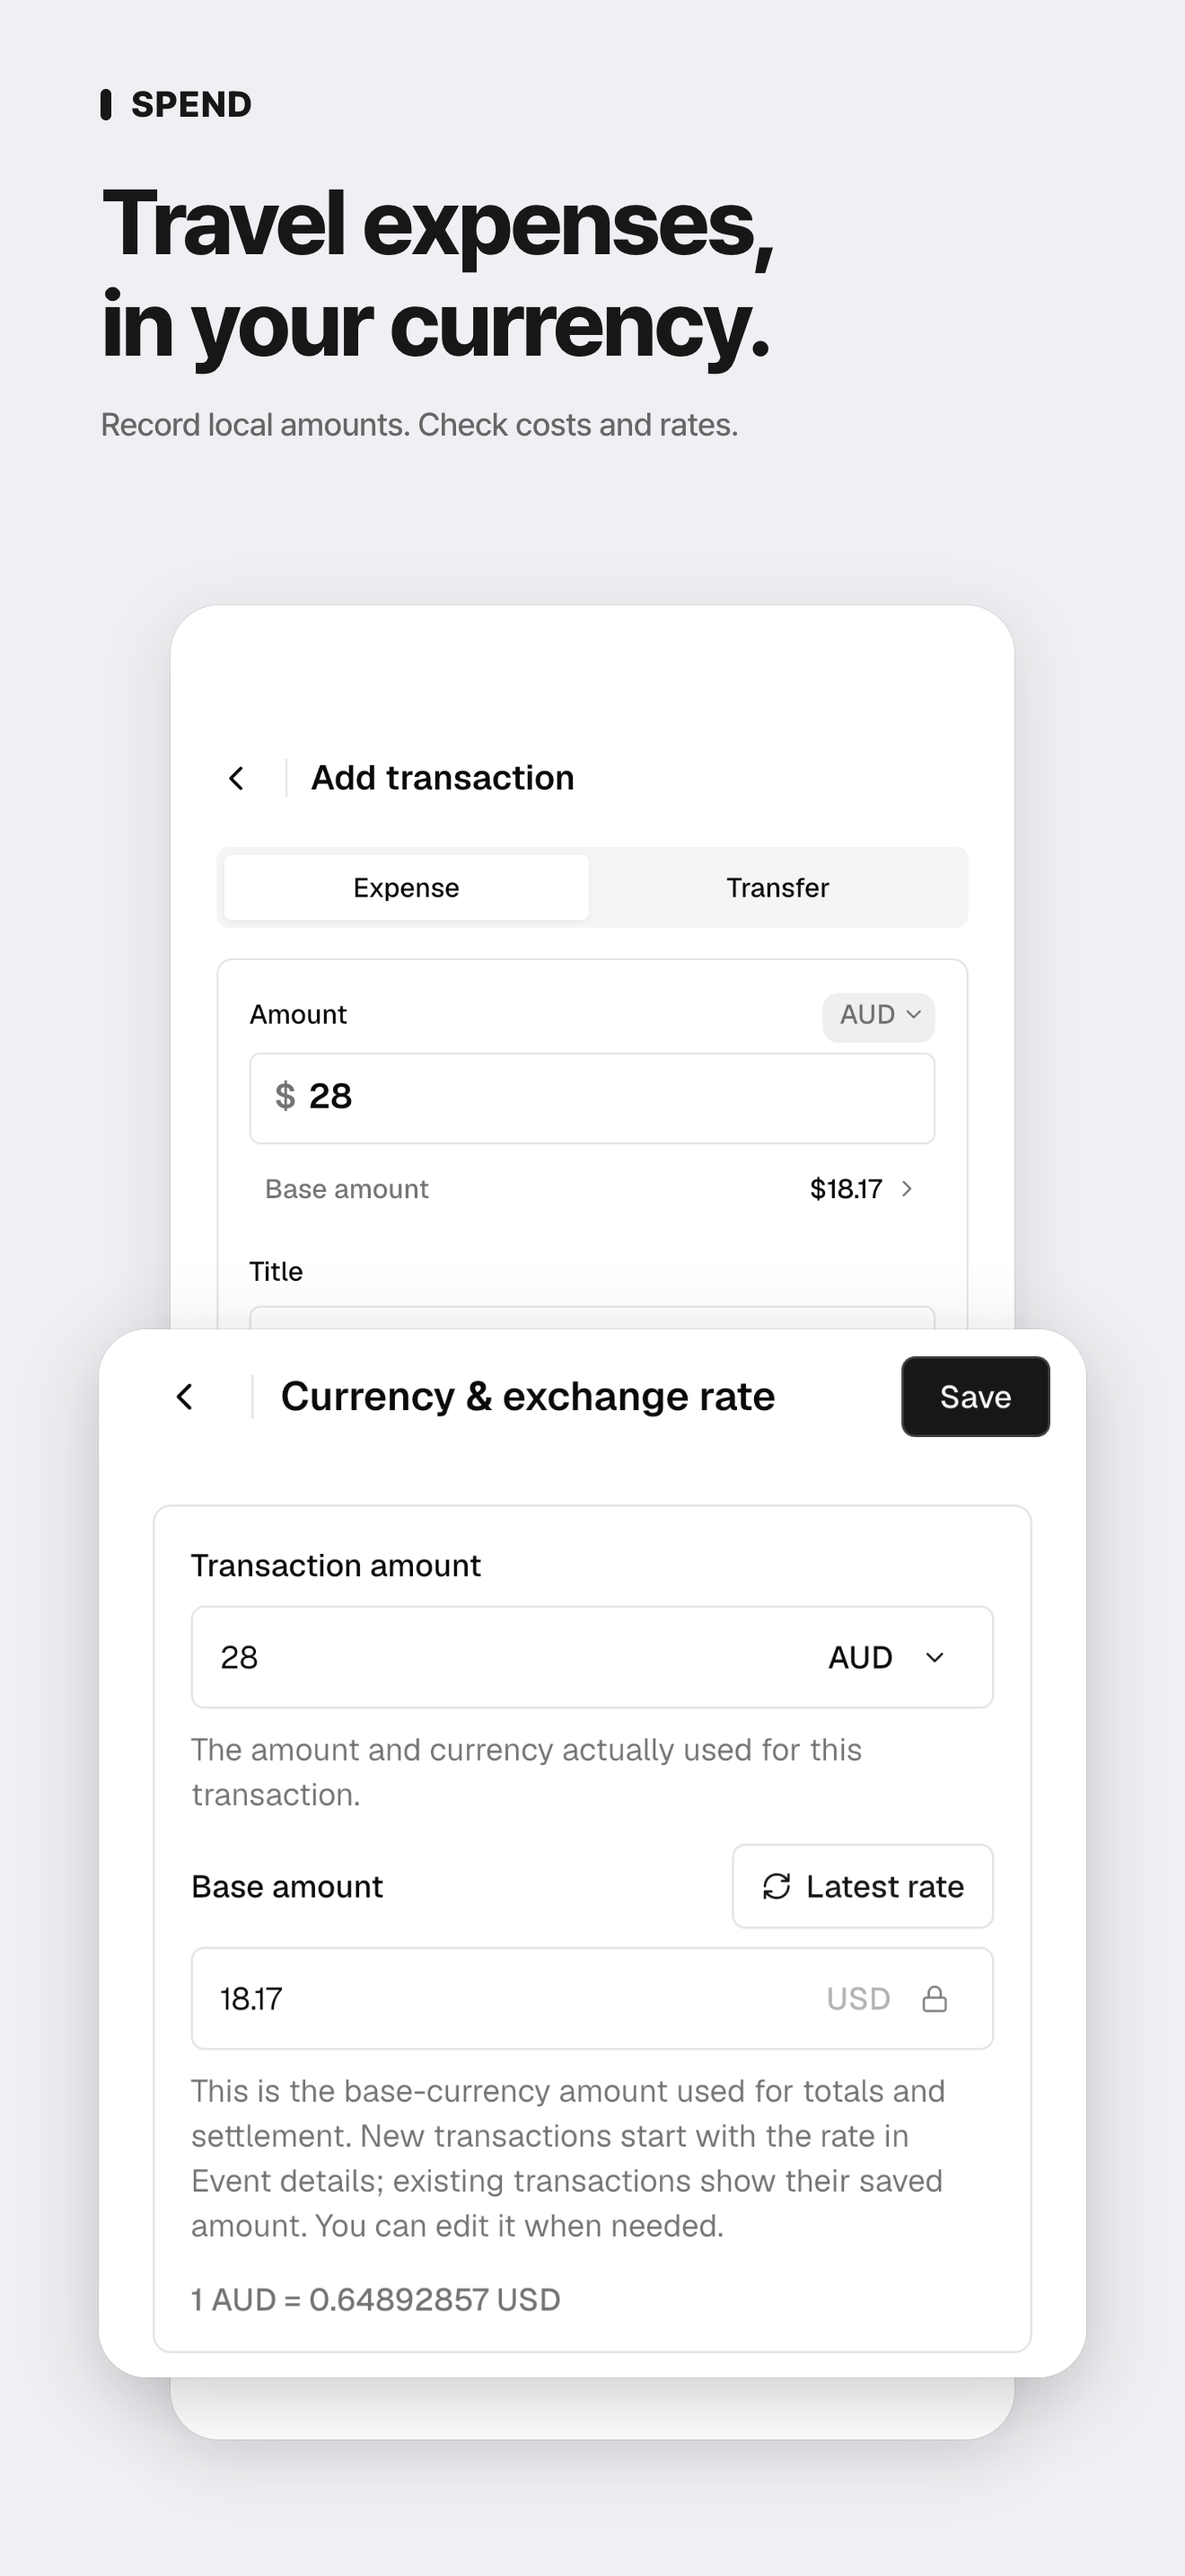
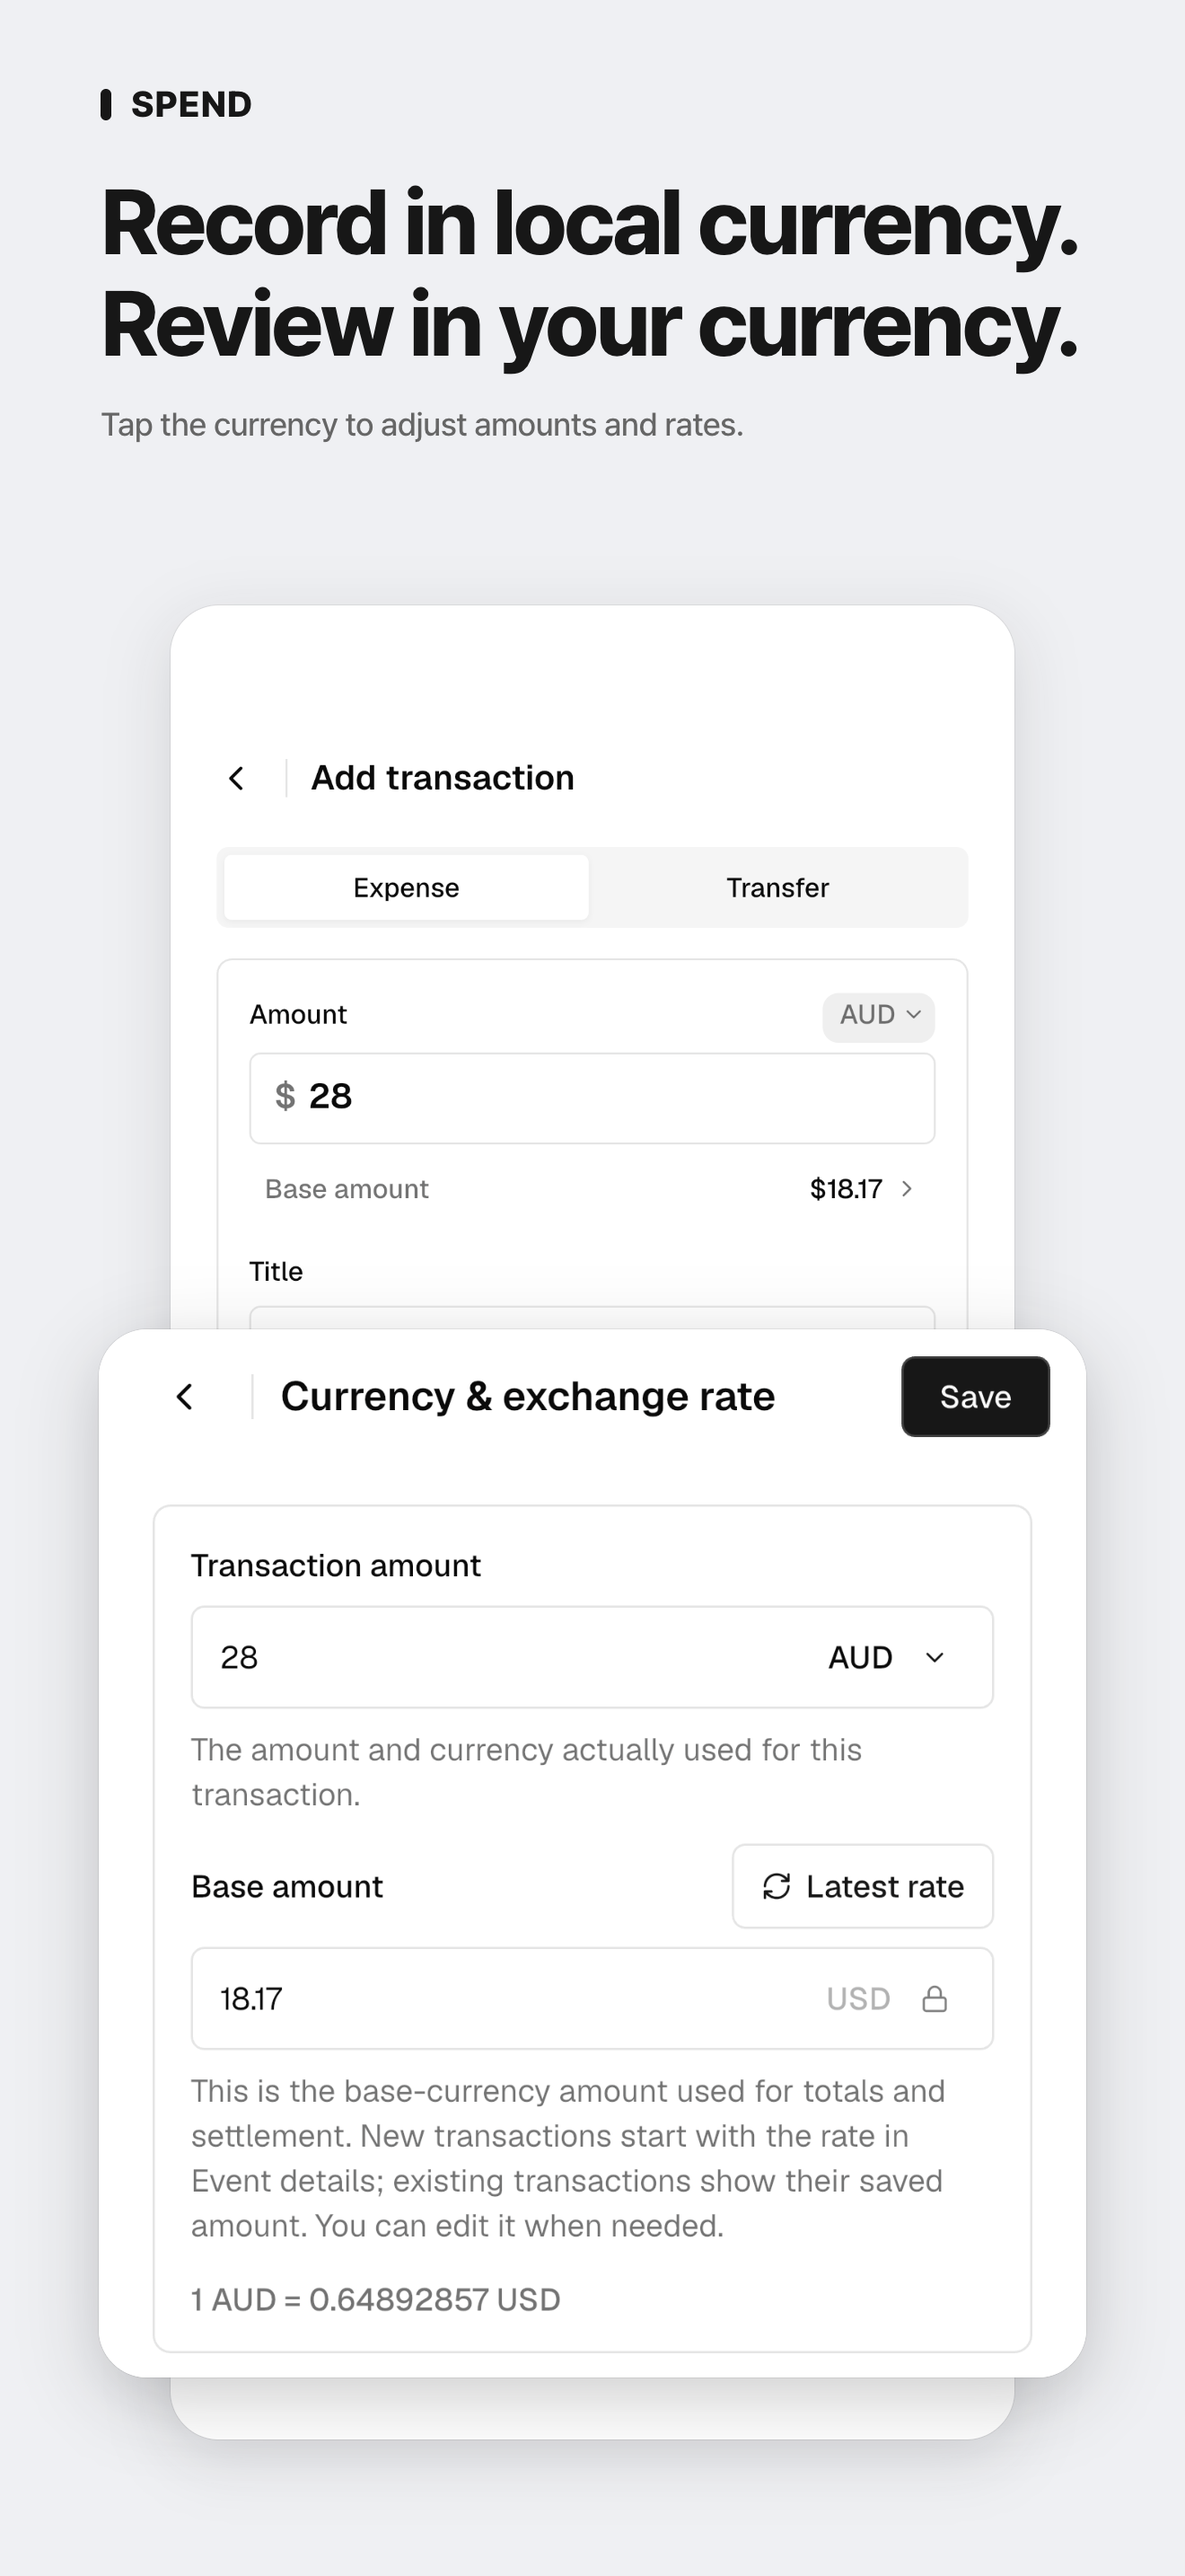
Align privacy with home and restore final store artwork

Changed region(s): [[0.0932, 0.0621, 0.9008, 0.1862]]

diff --git a/index.html b/index.html
@@ -9,9 +9,9 @@
   <link rel="canonical" href="https://app.spendlab.net/">
   <link rel="icon" type="image/svg+xml" href="/favicon.svg">
   <link rel="apple-touch-icon" sizes="180x180" href="/apple-touch-icon.png">
-  <link rel="stylesheet" href="/style.css?v=steel-blue1">
+  <link rel="stylesheet" href="/style.css?v=shared1">
   <script src="/theme.js?v=spend-neutral1" defer></script>
-  <link rel="stylesheet" href="/landing.css?v=intro3">
+  <link rel="stylesheet" href="/landing.css?v=intro4">
 </head>
 <body class="landing">
   <div class="page">
@@ -31,7 +31,6 @@
         <p class="availability"><span>For iPhone</span><span class="availability-next"><span aria-hidden="true">·</span> Android planned</span></p>
       </section>
       <section class="screens-section" aria-label="App preview">
-        <p class="preview-note">A preview of the next SPEND update <span>· Scroll to explore all 9 screens</span></p>
         <div class="screens" tabindex="0" aria-label="Nine app screenshots. Scroll horizontally to explore.">
           <img src="/images/overview.png" width="1320" height="2868" alt="Split group bills and track travel costs: a quick calculator and an expense book.">
           <img src="/images/quick-split.png" width="1320" height="2868" alt="Quick calculator: split a 60 dollar bill between three people, 20 dollars each.">
@@ -39,7 +38,7 @@
           <img src="/images/split-members.png" width="1320" height="2868" loading="lazy" alt="Choose who paid and who shares each expense.">
           <img src="/images/settlement.png" width="1320" height="2868" loading="lazy" alt="Member balances and suggested settlements show who owes whom.">
           <img src="/images/travel-costs.png" width="1320" height="2868" loading="lazy" alt="Record a Sydney trip day by day, with dates, places and notes.">
-          <img src="/images/currencies.png" width="1320" height="2868" loading="lazy" alt="Record travel expenses in local currency and see costs in your own currency.">
+          <img src="/images/currencies.png?v=b3fab5f442b5" width="1320" height="2868" loading="lazy" alt="Record travel expenses in local currency and see costs in your own currency.">
           <img src="/images/insights.png" width="1320" height="2868" loading="lazy" alt="Review spending highlights, categories and tags.">
           <img src="/images/mini-games.png" width="1320" height="2868" loading="lazy" alt="Finger, wheel and pinball mini games for a meetup.">
         </div>

diff --git a/style.css b/style.css
@@ -5,18 +5,18 @@
 body { margin: 0; -webkit-font-smoothing: antialiased; }
 a { color: inherit; text-underline-offset: .25em; }
 a:focus-visible { outline: 2px solid var(--accent); outline-offset: 5px; border-radius: 2px; }
-.page { width: min(100% - 48px, 760px); margin-inline: auto; }
+.page { width: min(100% - 48px, 1040px); margin-inline: auto; }
 header { display: flex; flex-wrap: wrap; align-items: center; justify-content: space-between; gap: 20px; padding-block: 30px; border-bottom: 1px solid var(--border); }
 .wordmark { font-family: Geist, sans-serif; font-size: 34px; font-weight: 750; letter-spacing: 0; line-height: 1.2; text-decoration: none; }
 .header-controls { display: flex; flex-wrap: wrap; align-items: center; gap: 8px; }
 #theme-toggle { min-height: 44px; padding: 8px 12px; border: 1px solid var(--border); border-radius: 6px; background: transparent; color: var(--foreground); font: inherit; font-size: 14px; cursor: pointer; }
 #theme-toggle:hover { background: var(--selected); }
 #theme-toggle:focus-visible { outline: 2px solid var(--accent); outline-offset: 4px; }
-main { padding-block: 72px 48px; }
+main { padding: 64px 0 0; }
 article[hidden] { display: none; }
 article:target { scroll-margin-top: 24px; }
 .eyebrow { color: var(--accent); font-size: 12px; font-weight: 650; letter-spacing: .14em; margin-bottom: 16px; }
-h1 { margin: 0; font-size: clamp(1.875rem, 5vw, 2.5rem); font-weight: 700; letter-spacing: -.045em; line-height: 1.3; overflow-wrap: anywhere; }
+h1 { font-family: Geist, sans-serif; margin: 0; font-size: clamp(1.875rem, 5vw, 2.5rem); font-weight: 700; letter-spacing: -.045em; line-height: 1.3; overflow-wrap: anywhere; }
 .date { font-size: 14px; color: var(--muted); margin: 16px 0 0; }
 .date time { margin-left: 6px; }
 .policy { margin-top: 48px; max-width: 650px; font-size: 17px; line-height: 1.9; word-break: keep-all; overflow-wrap: anywhere; }
@@ -41,4 +41,6 @@ footer a span { margin-left: 4px; }
 .primary-nav a[aria-current="page"] { color: var(--foreground); font-weight: 600; }
 .primary-nav a:hover { color: var(--accent); }
 
-.copyright { margin: 0; padding-bottom: 32px; color: var(--muted); font-size: 14px; line-height: 1.6; }
+.site-footer { margin-top: 48px; padding-block: 24px 32px; }
+.site-footer nav { display: flex; gap: 24px; }
+@media (max-width: 640px) { main { padding-top: 48px; } }

diff --git a/landing.css b/landing.css
@@ -1,6 +1,3 @@
-/* The privacy page retains its existing style.css layout. */
-.landing .page { width: min(100% - 48px, 1040px); }
-.landing main { padding: 64px 0 0; }
 .intro { text-align: center; padding-inline: 8px; }
 .intro h1 { font-family: Geist, sans-serif; font-size: clamp(2.5rem, 6vw, 4rem); font-weight: 650; letter-spacing: -.055em; line-height: 1.08; }
 .intro h1 span { color: var(--accent); }
@@ -11,20 +8,15 @@
 .availability-next { display: inline-flex; gap: 10px; }
 .availability-next > span { color: var(--accent); }
 .screens-section { margin-top: 60px; }
-.preview-note { margin: 0 0 16px; color: var(--muted); text-align: center; font-size: 14px; }
 .screens { display: grid; grid-auto-flow: column; grid-auto-columns: 31.5%; gap: 20px; overflow-x: auto; scroll-snap-type: x proximity; padding-bottom: 16px; scrollbar-color: var(--muted) var(--background); }
 .screens img { scroll-snap-align: start; display: block; width: 100%; height: auto; border-radius: 16px; border: 1px solid var(--border); }
 .screens:focus-visible { outline: 2px solid var(--accent); outline-offset: 5px; }
-.site-footer { margin-top: 48px; padding-block: 24px 32px; }
-.site-footer nav { display: flex; gap: 24px; }
 @media (max-width: 640px) {
-  .landing main { padding-top: 48px; }
   .intro { text-align: left; padding: 0; }
   .intro-copy { margin-inline: 0; font-size: 16px; }
   .desktop-break { display: none; }
   .availability { justify-content: flex-start; }
   .screens-section { margin-top: 40px; }
-  .preview-note { text-align: left; }
   .screens { grid-template-columns: none; grid-auto-flow: column; grid-auto-columns: 78%; gap: 16px; overflow-x: auto; scroll-snap-type: x proximity; padding-bottom: 12px; }
   .screens img { scroll-snap-align: start; border-radius: 12px; }
 }
@@ -42,7 +34,4 @@
 @media (max-width: 720px) {
   .roadmap { grid-template-columns: 1fr; gap: 28px; margin-top: 40px; padding-top: 28px; }
   .roadmap-heading h2 { font-size: 1.75rem; margin-bottom: 8px; }
-}
-@media (max-width: 640px) {
-  .preview-note span { display: block; margin-top: 6px; }
 }

diff --git a/privacy/index.html b/privacy/index.html
@@ -9,13 +9,13 @@
   <link rel="canonical" href="https://app.spendlab.net/privacy/">
   <link rel="icon" type="image/svg+xml" href="/favicon.svg">
   <link rel="apple-touch-icon" sizes="180x180" href="/apple-touch-icon.png">
-  <link rel="stylesheet" href="/style.css?v=steel-blue1">
+  <link rel="stylesheet" href="/style.css?v=shared1">
   <script src="/theme.js?v=spend-neutral1" defer></script>
 </head>
 <body>
   <div class="page">
     <header>
-      <a class="wordmark" href="/" aria-label="SPEND home">SPEND</a>
+      <a class="wordmark" href="/" aria-label="SPEND">SPEND</a>
       <div class="header-controls">
       <nav class="primary-nav" aria-label="Main navigation"><a href="/">Home</a><a href="/privacy/" aria-current="page">Privacy</a></nav>
 
@@ -33,10 +33,12 @@
           <p>If you want to remove your data, Just remove [SPEND - Split bills].</p>
           <p>That's all. Thank you.</p>
         </div>
-        <footer><span>Privacy inquiries</span><a href="mailto:cs@spendlab.net">cs@spendlab.net <span aria-hidden="true">↗</span></a></footer>
       </article>
     </main>
-    <p class="copyright">© 2017 SPEND</p>
+    <footer class="site-footer">
+      <span>© 2017 SPEND</span>
+      <nav aria-label="Footer"><a href="/privacy/">Privacy</a><a href="mailto:cs@spendlab.net">Contact <span aria-hidden="true">↗</span></a></nav>
+    </footer>
   </div>
 </body>
 </html>

diff --git a/docs/active_work_tracker.md b/docs/active_work_tracker.md
@@ -78,9 +78,9 @@ Updated: 2026-09-05
 - COMPLETE — User-requested previous design minus greeting deployed: Pages built `197fac7` without error; public HTML restores the prior title hierarchy without SPENDER, and restored1 CSS/theme bytes match source. Previous typography, dimensions and palette retained. No additional design changes pending.
 
 ## W-LANDING-20260907
-- Source: latest user decision uses app.spendlab.net; approved landing, integrated /privacy/, legacy blog links, 9 images and © 2017 SPEND.
-- Status: IN PROGRESS — app custom domain saved; deploy homepage and legacy redirect. Slot: current website delivery.
-- Implementation: approved steel-blue design, latest third image, Android availability and future features; preserve policy content. Canonical URLs now target app.spendlab.net.
-- Evidence: prepared source 02f7de6 pushed; source/image/route checks pass. Owner browser login verified; repository Pages controls available. Apex domain registration attempt failed as already taken; user superseded apex migration with app subdomain before any DNS change.
-- Domain: app.spendlab.net ownership and proxied CNAME verified; Pages custom domain saved, CNAME commit fc5cbef integrated. Earlier auto-review prerequisite resolved. Apex/mail unchanged; HTTPS enforcement and legacy blog redirect follow deployment.
-- Next: publish merged source, configure blog redirect, verify public app/privacy/assets and HTTPS, then tag/close delivery. Details: work_history/2026.09.07-app-introduction.md.
+- Source: user-approved app.spendlab.net landing, integrated privacy, nine final App Store images and © 2017 SPEND. Latest: remove the entire preview note, restore previously approved currency artwork, match privacy layout to home, repair blog 404 now.
+- Status: IN PROGRESS — current website delivery; owner this task. Existing app QA ownership is separate.
+- Implementation/evidence: c2b55de deployed, public app and privacy HTTPS 200. Steel-blue design accepted. Currency image now matches approved source07 b3fab5f442b5; entire preview note removed; privacy uses shared home page width/header/footer and heading font. Source checks passed: nine image hashes/originals, unchanged policy/date, shared footer/width, local routes, diff hygiene.
+- Domain: app CNAME/ownership verified. Blog CNAME remains proxied; deployed host-only301 to https://app.spendlab.net/privacy/, public301→200 verified2026-09-08. Apex/mail preserved.
+- Store: English support URL saved to app root; Korean support and localized privacy URL readback pending. App internal URL is post-production P24 in app tracker.
+- Next: push verified source; complete store URL readback, verify public delivery and close. Details: work_history/2026.09.07-app-introduction.md.

diff --git a/docs/work_history/2026.09.07-app-introduction.md b/docs/work_history/2026.09.07-app-introduction.md
@@ -63,3 +63,12 @@ Auto-review rejected changing the Pages hostname before app DNS was prepared, ci
 Next: retry the prepared Pages hostname switch, merge the approved branch into master, configure the legacy blog-to-privacy redirect, verify HTTPS/public assets and tag the actual delivery.
 
 Pages host switch succeeded after DNS preparation: UI confirms Custom domain app.spendlab.net saved; GitHub generated fc5cbef changing only CNAME. Integrated that remote change into the approved e24d218 source. Apex and mail records remain unchanged. Previous auto-review rejection is resolved with verified ownership and prepared DNS. Publishing the merged source now; legacy blog redirection and end-to-end HTTPS verification remain.
+
+## 2026-09-08 final corrections and legacy host recovery
+
+- User removed the entire preview caption, including the shortened proposal. No visible preview/scroll-count note remains.
+- The currency artwork copied earlier was an intermediate variant. Replaced it with the final approved en-US/07.png (b3fab5f442b570b1373e261b65152e5b729efcaf6cfc254a47eef9346ebf5ca1), restoring “Record in local currency. Review in your currency.” Updated provenance/cache query. All nine files match current approved originals.
+- Privacy shares the home page1040px outer width, header, footer, main spacing and Geist title. Policy prose/date preserved exactly;650px reading width retained. Home layout/color retained.
+- Source verification: nine image SHA256/original byte comparisons, all local resources/routes, shared footer/width, absent preview note, preserved policy/date and git diff --check passed. Browser visual QA not performed.
+- Cloudflare rule807ed387055040ccac2beaab7412ddd7 is Active: host equals blog.spendlab.net, static301 to https://app.spendlab.net/privacy/, query preservation off. Public root301 and target200 confirmed at2026-09-07T15:02Z. Blog proxied DNS remains, apex/mail unchanged. This supersedes all earlier blog-deletion proposals.
+- Pages built c2b55de before these final corrections. New source delivery verification follows.

diff --git a/README.md b/README.md
@@ -2,14 +2,14 @@
 
 A small English app introduction and privacy page for `app.spendlab.net`.
 
-- `/`: app introduction, all nine approved App Store images, current App Store listing link. Images are explicitly labeled as an upcoming update preview. Android, live sharing/sync, advanced statistics and photos/maps appear separately as future plans.
-- `/privacy/`: the existing policy, unchanged in content and design.
+- `/`: app introduction, all nine approved App Store images, current App Store listing link. Android, live sharing/sync, advanced statistics and photos/maps appear separately as future plans.
+- `/privacy/`: the existing policy, with preserved text and the shared home header, footer and page width.
 - `/spend/2019/01/30/privacy-policy.html`: compatibility redirect to `/privacy/`.
 
 Plain HTML/CSS and `theme.js`; dark by default with an icon-only light switch. No build dependencies or external page assets. Geist and its OFL license are hosted locally. App Store artwork provenance is in `docs/work_history/landing-image-sources-2026.09.07.json`.
 
 Preview: `python3 -m http.server 4175 --bind 127.0.0.1`.
 
-The active Pages host remains `blog.spendlab.net` until the app-subdomain cutover is verified. Existing apex services remain unchanged. The landing work is prepared on a separate branch; merging it alone does not finish the domain migration. See `docs/work_history/2026.09.07-app-introduction.md`.
+GitHub Pages serves `https://app.spendlab.net/`. Cloudflare redirects all `blog.spendlab.net` paths to `https://app.spendlab.net/privacy/` for existing app links. Existing apex services remain unchanged. See `docs/work_history/2026.09.07-app-introduction.md`.
 
 The privacy wording remains the January 30, 2019 policy. The ongoing app release owns policy-content updates; this website task preserves the requested existing text.
